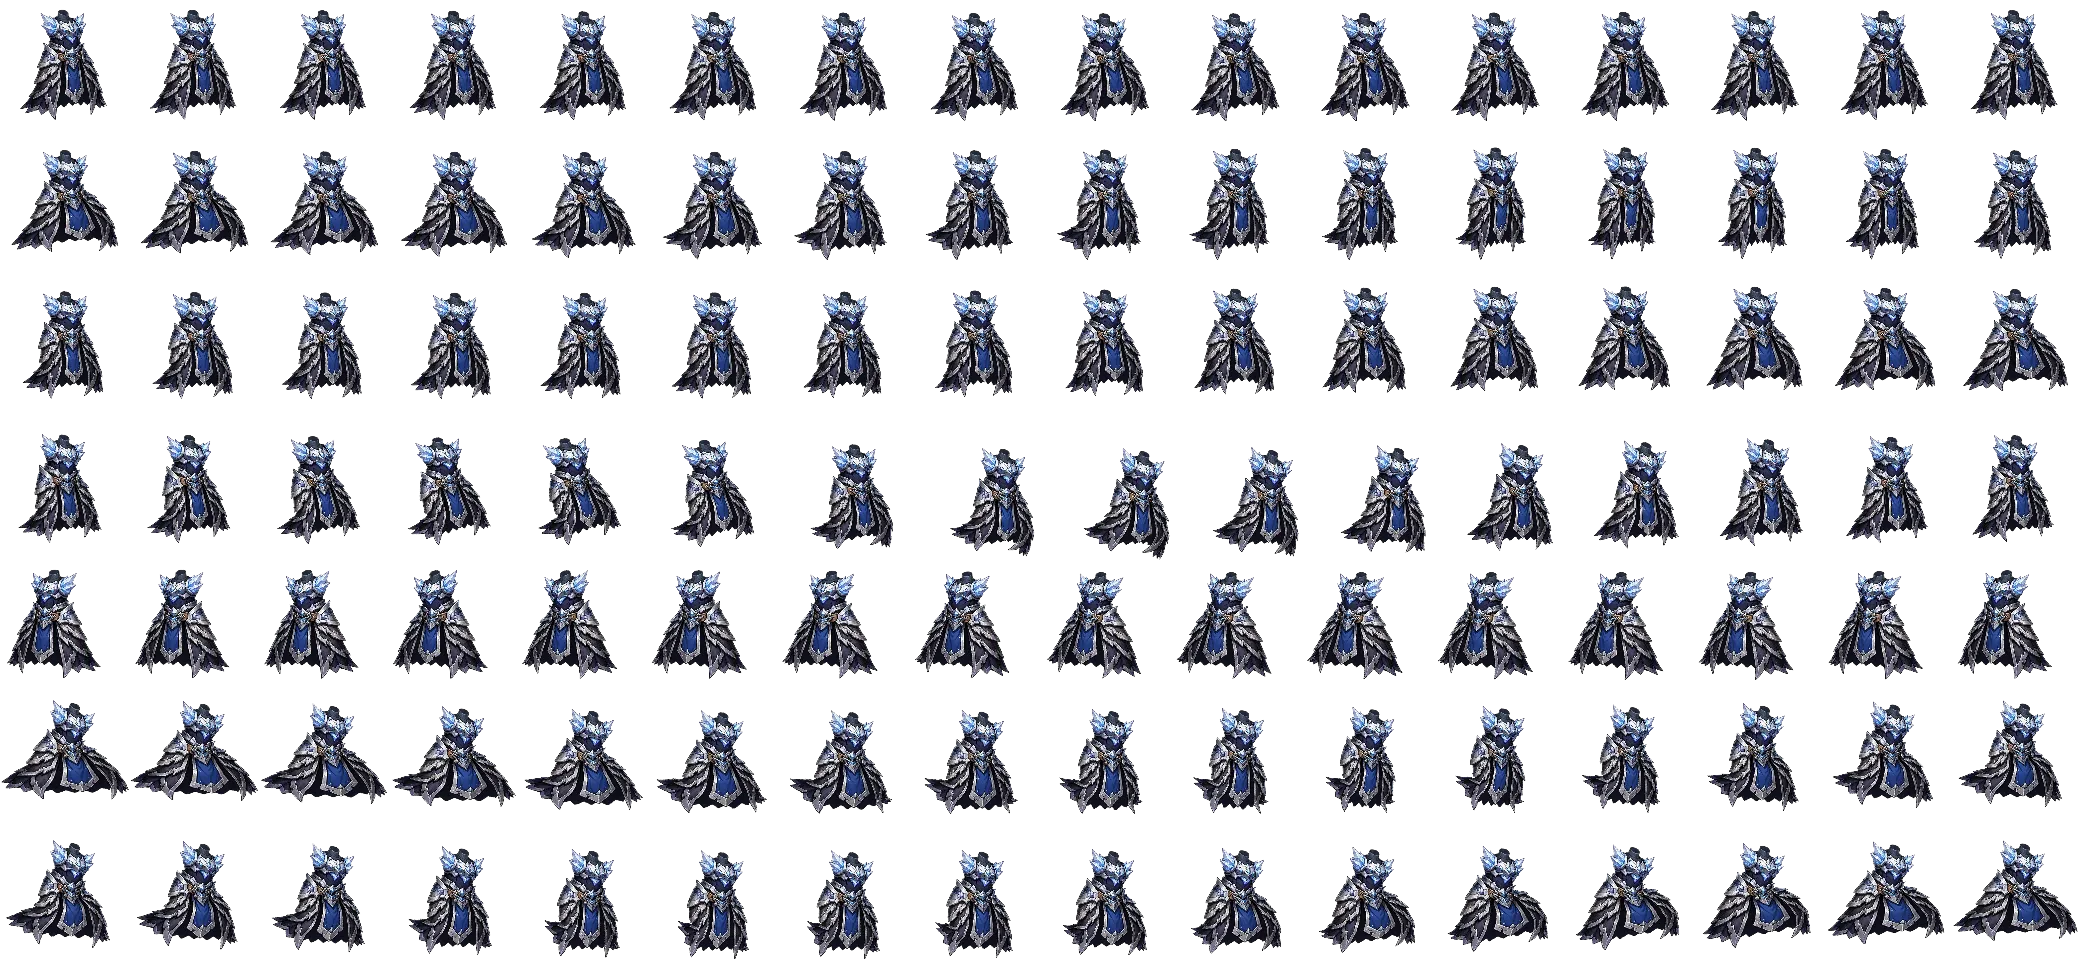
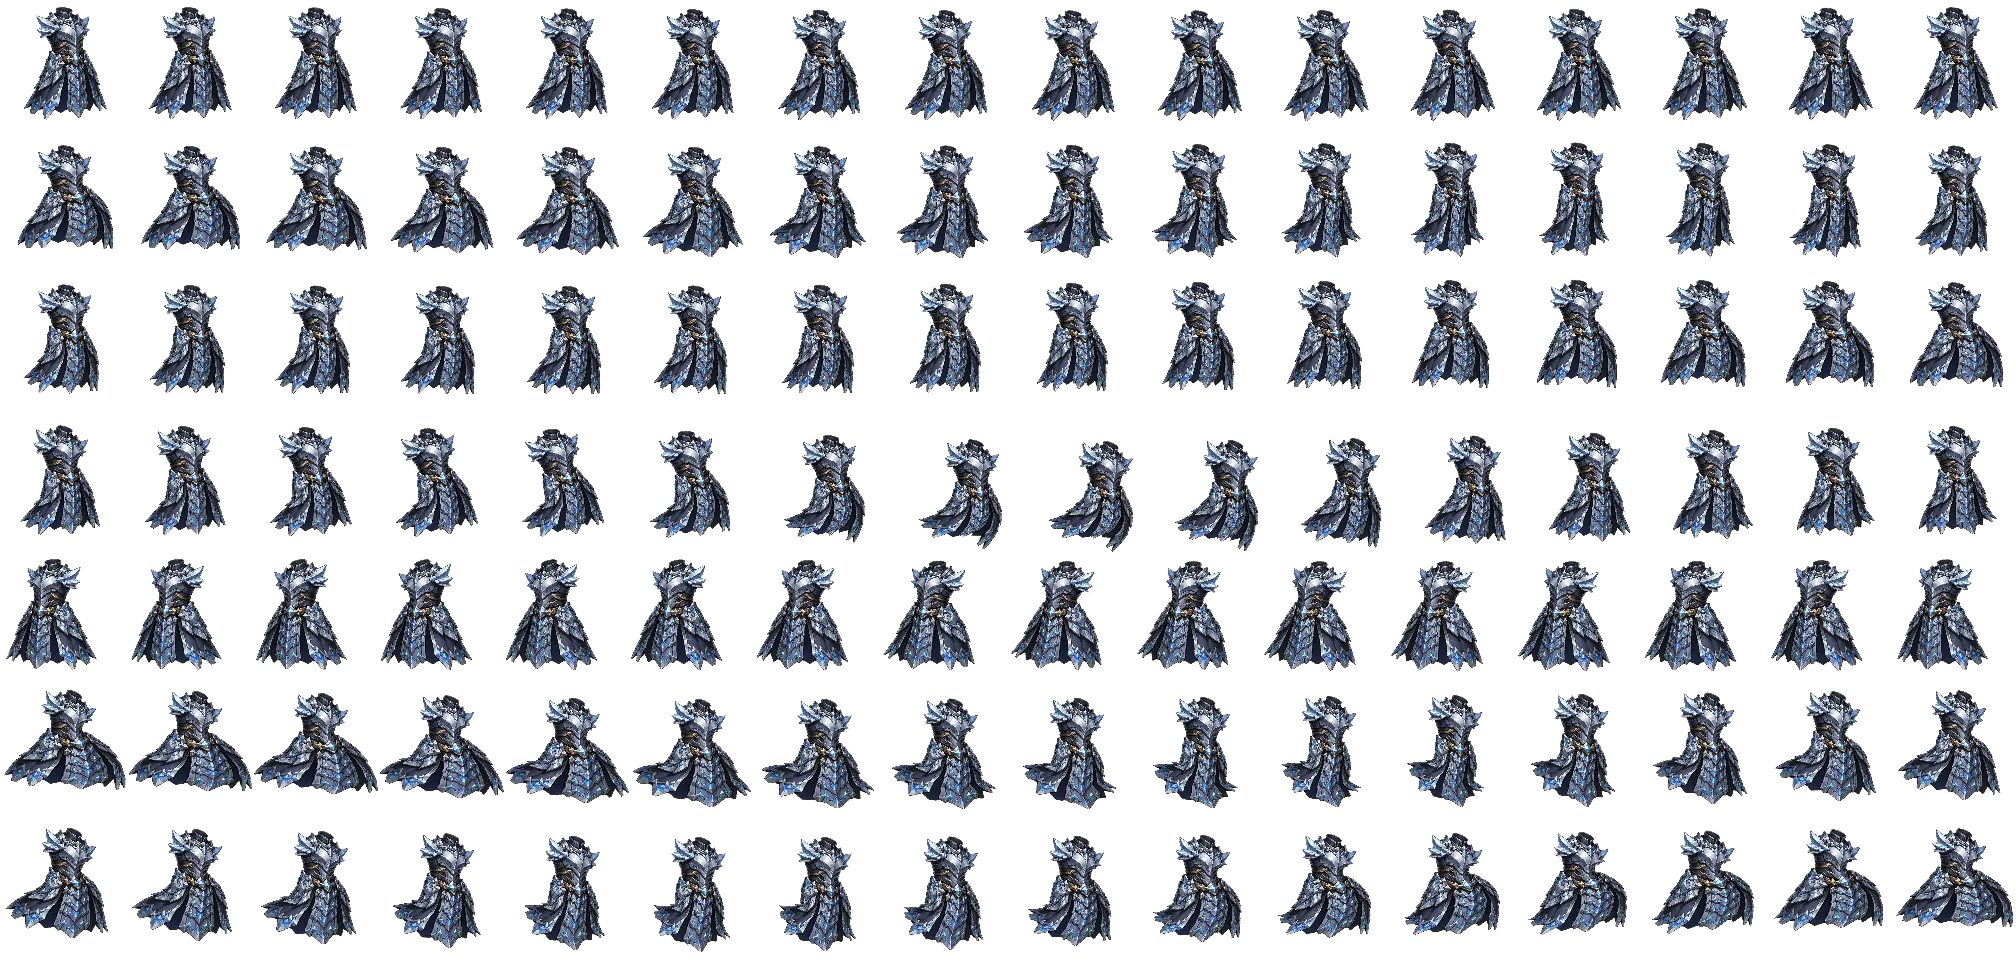
Vũ khí CẦM TAY thành lớp thứ sáu, và chiêu chọn hoạt cảnh theo kiểu ra đòn
① VŨ KHÍ LÀ LỚP, KHÔNG PHẢI THẦN KHÍ (với bộ đã nướng)

Nướng thẳng ba khe vũ khí của rig (左手武器 / 2b / 2c) thành lớp `vk`, đặt GIỮA
thân và tay gần — đúng thứ tự vẽ của bộ xương. Vì nướng từ rig chứ không chiếu một
tấm phẳng, vũ khí có BIẾN DẠNG LƯỚI: vung kiếm thì lưỡi cong theo, không cứng đơ.

Khoá theo MÓN đang cầm (`NV_VK_LOP`, khoá `dòng|giai` y hệt VK_ANH), nên đổi kiếm
là đổi hình — đúng mô hình "vũ khí lẻ". Cây nào chưa có lớp thì vẫn về thần khí.
`_tkHien` thêm điều kiện `!_coVkLop`: thiếu nó là trên màn có HAI cây, một trong
tay và một bay lượn cạnh người.

② BỐN HOẠT CẢNH RA ĐÒN, TRƯỚC NAY CHỈ DÙNG MỘT

Rig có sẵn 08_SwordAttack · 08_SwordAttack2 · 06_PunchAttack · 05_MagicAttack, đều
đã nướng từ lâu, mà mọi chiêu đều dùng đúng khối 'c' — tức Dark Knight bổ đại kiếm
bằng tư thế niệm chú. Nay ánh xạ qua KHOI_THEO_ACT:

    slash → a · spin → s · thrust → s · guard → t · còn lại → c

Ánh xạ từ `player.castAct` chứ KHÔNG khai theo id chiêu: heroCastAct() đã suy ra
kiểu ra đòn cho từng chiêu và đã chọn sao cho khớp VFX. Khai lại theo id chiêu là
dựng bản sao thứ hai của một luật đang sống. (Đòn thường vốn đã luân phiên a ↔ s
qua DANH_HAI_NHAT — không đụng.)

③ HAI BÀI KIỂM SỬA VÌ CHÍNH CHÚNG, không phải vì sản phẩm

· test_lopdo §1 chép cứng danh sách NV_LOP nên thêm một lớp là đỏ ở chỗ chẳng liên
  quan. Nay ĐỌC THẲNG bảng LOP trong tools/spine/nuong_nv.py — đúng thứ nó định gác
  ("hai bảng trùng khít"). Đọc theo dòng chứ không bằng một regex bắt cả tuple: tên
[…]

diff --git a/public/game/game.js b/public/game/game.js
@@ -13261,6 +13261,25 @@ const NV_MOC2  = { h:0, p:8, s:20, d:36, j:46, q:56, n:62, t:68, e:74 };
 // khối lúc vẽ nữa: Sylvan Ranger bắn nỏ, Dark Wizard và Dark Lord niệm chú, ngay trong khối 'a'.
 // Lớp nào có nhát thứ hai thì đòn thường luân phiên 'a' ↔ 's'.
 const DANH_HAI_NHAT = { thieulam: 1, minhgiao: 1 };
+// ── CHIÊU NÀO DÙNG HOẠT CẢNH NÀO ──────────────────────────────────────────────────────────
+// Rig có tới bốn hoạt cảnh ra đòn đã nướng sẵn, mà trước bản này mọi chiêu đều dùng đúng MỘT
+// khối 'c' (05_MagicAttack) — tức Dark Knight bổ đại kiếm bằng tư thế niệm chú.
+//
+// Ánh xạ từ `player.castAct` chứ KHÔNG khai theo id chiêu: `heroCastAct()` đã suy ra kiểu ra
+// đòn cho từng chiêu và đã chọn sao cho KHỚP VFX (Meteor rơi từ trên ⇒ 'raise', quạt lửa ⇒
+// 'spin'). Khai lại theo id chiêu là dựng bản sao thứ hai của một luật đang sống — thêm chiêu
+// mới là hai bên lệch ngay. Ở đây chỉ dịch kiểu ra đòn sang khối art.
+//
+//   slash  chém ngang      → 'a'  08_SwordAttack   (nhát chính)
+//   spin   quét vòng       → 's'  08_SwordAttack2  (nhát hai, biên độ rộng hơn)
+//   thrust đâm             → 's'  — chủ dự án chốt: "đâm gió thì sẽ là attack 2"
+//   guard  thủ thế / buff  → 't'  07_StatusEffect  (đúng dáng đứng khi dính buff)
+//   raise · point · shoot  → 'c'  05_MagicAttack   (giơ tay niệm — hành vi cũ, giữ nguyên)
+//
+// ⚠ 's' · 't' · 'p' nằm ở BẢNG HAI (nạp khi cần). Chưa về thì heroSprite lui về dáng đứng chứ
+// không rơi về hình vẽ — và nvBoTruoc() đã kéo sẵn cả hai bảng của bộ đang mặc, nên cú tung
+// chiêu đầu tiên không bị hụt.
+const KHOI_THEO_ACT = { slash: 'a', spin: 's', thrust: 's', guard: 't' };
 // SẢI CHÂN mỗi VÒNG hoạt cảnh — quãng đường thế giới mà MỘT vòng bảng khung chở được.
 // Đo bằng máy: `tools/do_dang.js`. ĐỪNG chép tay lại, và đừng ước lượng.
 //
@@ -13459,7 +13478,12 @@ const NV_ICON_O = { non: 0, ao: 1, tay: 2, chan: 3 };
 // tự ô trang bị. Spine vẽ: tóc-sau · tay-XA · hai chân · thân · tay-GẦN · đầu — tức ô `tay`
 // nằm HAI BÊN ô `ao`. Gộp `tay` làm một lớp là tay xa nhảy ra trước ngực.
 // Phải trùng khít bảng LOP trong tools/spine/nuong_nv.py.
-const NV_LOP = [['h', 'non'], ['t1', 'tay'], ['c', 'chan'], ['a', 'ao'], ['t2', 'tay'], ['n', 'non']];
+// ⚠ VŨ KHÍ nằm GIỮA thân (`a`) và tay gần (`t2`) — đúng thứ tự vẽ của bộ xương Spine:
+//     背后头发 · 左手 · 左腿 · 右腿 · 躯干 · (vũ khí) · 右手 · 右手前伸 · 头
+// Đặt sau `t2` là lưỡi kiếm chui ra sau bàn tay; đặt trước `a` là nó nằm sau lưng áo.
+// Bảng này phải TRÙNG KHÍT `LOP` trong tools/spine/nuong_nv.py — tests/test_lopdo.js §1 gác.
+const NV_LOP = [['h', 'non'], ['t1', 'tay'], ['c', 'chan'], ['a', 'ao'],
+                ['vk', 'vukhi'], ['t2', 'tay'], ['n', 'non']];
 // Hộp CẮT của từng lớp: [x1,y1,w1,h1, x2,y2,w2,h2] — bảng một rồi bảng hai, trong hệ ô 240x300.
 // Do chính `nuong_nv.py --lop` in ra sau khi nướng; sai một số là lớp dán lệch người.
 //
@@ -13496,9 +13520,9 @@ const NV_LOP_HOP = {
   // ── BỘ GIÁP ──────────────────────────────────────────────────────────────────────────
   // Phoenix — bộ giai 7 của Dark Knight. Lớp `h` (tóc sau) RỖNG ở bộ này nên không khai,
   // y như dkcw1/sbhd1/dlcm1: mũ giáp trùm kín gáy thì không còn tóc nào thò ra sau.
-  'dkph1':  { t1:[62,131,133,104,36,106,182,134], c:[67,156,142,107,65,139,135,131],
-              a:[63,119,130,140,20,110,173,156], t2:[56,115,148,100,30,106,167,163],
-              n:[86,86,103,77,0,78,178,173] },
+  'dkph1':  { t1:[61,133,135,105,43,102,175,131], c:[62,161,152,105,70,139,136,124],
+              a:[63,124,126,138,26,114,167,147], vk:[37,185,166,87,96,169,144,103],
+              t2:[57,110,145,103,35,111,163,139], n:[84,87,105,75,0,79,179,169] },
   'dwvt1':  { t1:[61,137,136,82,44,105,174,128], c:[64,154,135,114,67,136,141,125],
               a:[65,121,129,122,28,111,163,142], t2:[68,125,130,81,31,116,163,139],
               n:[87,88,80,55,0,79,187,172] },
@@ -13506,9 +13530,25 @@ const NV_LOP_HOP = {
 // Ô nào đang đeo món của bộ CÓ LỚP RỜI? Tra theo `lớp|giai` của CHÍNH MÓN ĐỒ, không phải của
 // người chơi: trong túi có thể nằm cái nón giai 3 của lớp khác, và nó phải hiện đúng nón đó.
 // Trả null khi không ô nào có — người gọi khỏi phải tạo rác mỗi khung hình.
+// Món vũ khí nào có LỚP CẦM TAY. Khoá giống hệt VK_ANH (`dòng|giai`, lùi về `dòng`), vì đây
+// là cùng một câu hỏi — "cây này trông ra sao" — chỉ khác đầu ra: VK_ANH cho THẦN KHÍ một tấm
+// phẳng bay theo người, còn bảng này cho một BẢNG KHUNG đã nướng trong tay theo từng hoạt cảnh.
+// Có mặt ở đây thì thần khí tự tắt (xem `_tkHien`), nếu không là hiện HAI cây.
+const NV_VK_LOP = {
+  'kiem|7': 'dkph1',        // Phượng Kiếm — nướng từ chính gói Spine của bộ Phoenix
+};
+function nvVkLop(p){
+  const it = p && p.equip && p.equip.vukhi;
+  const d = it && itemDef(it);
+  if (!d || !d.line) return null;
+  const ten = NV_VK_LOP[d.line + '|' + (it.tier || 1)] || NV_VK_LOP[d.line];
+  return (ten && NV_LOP_HOP[ten] && NV_LOP_HOP[ten].vk) ? ten : null;
+}
 function nvLopCuaEquip(p){
   if (!p || !p.equip) return null;
   let ra = null;
+  const vk = nvVkLop(p);
+  if (vk) (ra || (ra = {})).vukhi = vk;
   for (const k of HERO_ARMOR_SLOTS){
     const it = p.equip[k];
     if (!it || NV_ICON_O[k] == null) continue;
@@ -15622,7 +15662,10 @@ function drawPlayer(){
   //
   // Thần khí thì còn phải TẮT lúc đi theo sau: vũ khí XUẤT HIỆN cùng cú ra đòn, đó là nửa còn
   // lại của "xuất hiện đằng trước tung chiêu kèm vũ khí".
-  const _tkHien = !_coAva || _lopHien;
+  // Bộ nào có LỚP VŨ KHÍ nướng sẵn thì cây kiếm đã nằm trong tay rồi — tắt thần khí, không
+  // thì trên màn có HAI cây: một cây trong tay và một cây bay lượn cạnh người.
+  const _coVkLop = !!nvVkLop(p);
+  const _tkHien = (!_coAva || _lopHien) && !_coVkLop;
   {
     ctx.save();
     // Cùng cả phép LẤY ĐÀ của khối thân: cánh cắm vào lưng, thân lùi lại lấy đà rồi bổ tới mà
@@ -15762,7 +15805,10 @@ function drawPlayer(){
     //   tay không          → 'p' (đấm)  — nhân vật mới tạo không có vũ khí nào
     //   Dark Knight/Spellblade → luân phiên 'a' ↔ 's' cho hai nhát khác nhau
     // Spellblade sau này mang hai kiếm thì 's' chính là nhát của tay phụ.
-    const _blk = _kind !== 'a' ? _kind
+    // Niệm chú: đổi khối theo KIỂU RA ĐÒN của chiêu (xem KHOI_THEO_ACT). `_kind` vẫn là 'c'
+    // nên ràng buộc `_lopHien === (_kind==='a'||'c')` ở khối trên không đổi — chỉ khối VẼ đổi.
+    const _blk = _kind === 'c' ? (KHOI_THEO_ACT[p.castAct] || 'c')
+               : _kind !== 'a' ? _kind
                : !(p.equip && p.equip.vukhi) ? 'p'
                : (DANH_HAI_NHAT[p.sect] && p.nhat2) ? 's' : 'a';
     // Số khung lấy theo KHỐI VẼ, không theo _kind: khối đấm có 12 khung còn khối chém 16,

diff --git a/tests/test_lopdo.js b/tests/test_lopdo.js
@@ -32,11 +32,39 @@ const { chromium } = require('playwright');
     so:  Object.keys(NV_LOP_HOP).map(k => k + ':' + Object.keys(NV_LOP_HOP[k]).length)
   }));
   console.log('1) bảng lớp:', JSON.stringify(r1));
-  // tóc-sau · tay XA · chân · thân · tay GẦN · đầu — ô `tay` phải nằm HAI BÊN ô `ao`
-  const canLop = ['h:non', 't1:tay', 'c:chan', 'a:ao', 't2:tay', 'n:non'];
-  if (r1.lop.join('|') !== canLop.join('|'))
-    fail(`NV_LOP sai thứ tự vẽ: ${r1.lop.join('|')} — cần ${canLop.join('|')}`);
-  else pass('NV_LOP đúng thứ tự vẽ của bộ xương (tay XA · chân · thân · tay GẦN · đầu)');
+  // ⚠ ĐỌC THẲNG bảng `LOP` của bộ nướng, ĐỪNG chép cứng danh sách sang đây. Thứ bài này gác là
+  // "hai bảng TRÙNG KHÍT nhau" — chép cứng thì thêm một lớp (ví dụ lớp vũ khí) là bài đỏ ở chỗ
+  // chẳng liên quan gì tới thứ nó định gác, và người sửa sẽ nới bài kiểm chứ không sửa lệch.
+  // ⚠ Bài này có thể chạy từ BẢN CHÉP ngoài kho (tools/reg.sh chép sang $OUT/src), nên
+  // __dirname không nằm trong kho. Dò cả cwd và vài chỗ quen thuộc — cùng lối `timGoc()`
+  // của test_nowuxia2, nơi đã mắc đúng lỗi này một lần và mục quét tệp im lặng rỗng ruột.
+  const fs = require('fs'), path = require('path');
+  const MOC = 'tools/spine/nuong_nv.py';
+  let goc = null;
+  for (let d of [__dirname, process.cwd()]){
+    for (let i = 0; i < 6 && d && d !== '/'; i++){
+      if (fs.existsSync(path.join(d, MOC))) { goc = d; break; }
+      d = path.dirname(d);
+    }
+    if (goc) break;
+  }
+  if (!goc) for (const g of ['/home/user/axiewuxia', '/home/user/axie-wuxia'])
+    if (fs.existsSync(path.join(g, MOC))) { goc = g; break; }
+  const py = goc ? fs.readFileSync(path.join(goc, MOC), 'utf8') : '';
+  // Đọc theo DÒNG chứ không bằng một regex bắt cả tuple: tên khe trong bảng là chữ Hán
+  // ('背后头发'…) nên \w không khớp, mà tuple thì lồng dấu phẩy và ngoặc. Mỗi dòng lấy token
+  // trong nháy ĐẦU (mã lớp) và token trong nháy CUỐI (ô trang bị) — hai thứ duy nhất viết
+  // bằng chữ latin trên dòng đó.
+  const kh = py.slice(py.indexOf('\nLOP = ['));
+  const canLop = kh.slice(0, kh.indexOf(']\n')).split('\n')
+    .map(l => l.split('#')[0])
+    .map(l => [...l.matchAll(/'([A-Za-z0-9_]+)'/g)].map(m => m[1]))
+    .filter(a => a.length >= 2)
+    .map(a => a[0] + ':' + a[a.length - 1]);
+  if (canLop.length < 5) fail('không đọc được bảng LOP trong tools/spine/nuong_nv.py — bài kiểm mất chỗ bám');
+  else if (r1.lop.join('|') !== canLop.join('|'))
+    fail(`NV_LOP lệch bảng LOP của bộ nướng: ${r1.lop.join('|')} — nuong_nv.py khai ${canLop.join('|')}`);
+  else pass(`NV_LOP trùng khít bảng LOP của bộ nướng (${canLop.length} lớp): ${canLop.join(' · ')}`);
   if (!r1.bo.length) fail('chưa bộ nào có lớp rời');
   else pass(`${r1.bo.length} bộ có lớp rời: ${r1.bo.join(', ')}`);
 

diff --git a/tests/test_hopve.js b/tests/test_hopve.js
@@ -100,8 +100,13 @@ const { chromium } = require('playwright');
     else pass(`${goi.length}/${goi.length} lời gọi vẽ cánh + thần khí đều bám neo lớp nhân vật`);
   }
   // Vũ khí phải TẮT lúc đi theo sau — nửa còn lại của "xuất hiện đằng trước kèm vũ khí".
-  if (!/const _tkHien = !_coAva \|\| _lopHien;/.test(src))
+  const _tk = src.match(/const _tkHien = ([^;]+);/);
+  if (!_tk)
     fail('không thấy cửa `_tkHien` — thần khí sẽ hiện cả lúc đang đi theo sau');
+  else if (!/_lopHien/.test(_tk[1]) || !/_coAva/.test(_tk[1]))
+    fail('cửa `_tkHien` không còn hỏi `_coAva`/`_lopHien` — thần khí sẽ hiện lúc đi theo sau');
+  else if (!/_coVkLop/.test(_tk[1]))
+    fail('cửa `_tkHien` không hỏi lớp vũ khí — bộ có kiếm nướng sẵn trong tay sẽ hiện HAI cây');
   else if (!/_tk && !_tk\.truoc && _tkHien/.test(src) || !/_tk && _tk\.truoc && _tkHien/.test(src))
     fail('một trong hai lớp thần khí (trước/sau thân) chưa đi qua cửa `_tkHien`');
   else pass('thần khí chỉ hiện khi lớp nhân vật ra trước — cả hai lớp vẽ đều qua cửa');

diff --git a/tools/spine/nuong_nv.py b/tools/spine/nuong_nv.py
@@ -70,6 +70,11 @@ LOP = [('h',  ('背后头发',),          'non'),    # tóc sau — rỗng ở b
        ('t1', ('左手',),              'tay'),    # tay XA, nằm sau thân
        ('c',  ('左腿', '右腿'),        'chan'),
        ('a',  ('躯干_带短裤',),        'ao'),
+       # VŨ KHÍ nằm ĐÚNG GIỮA thân và tay gần — xem thứ tự vẽ ghi ở trên. Đặt sau `t2` là
+       # cây kiếm chui ra sau bàn tay; đặt trước `a` là nó nằm sau lưng áo.
+       # Nướng thẳng ba khe của rig (không phải chiếu một tấm phẳng như nuong_vk.py) nên vũ khí
+       # có BIẾN DẠNG LƯỚI đúng như hoạ sĩ vẽ — vung kiếm thì lưỡi cong theo, không cứng đơ.
+       ('vk', KHE_VK,                'vukhi'),
        ('t2', ('右手', '右手前伸'),     'tay'),   # tay GẦN, nằm trước thân
        ('n',  ('头',),                'non')]
 O_W, O_H, COT = 240, 300, 16
